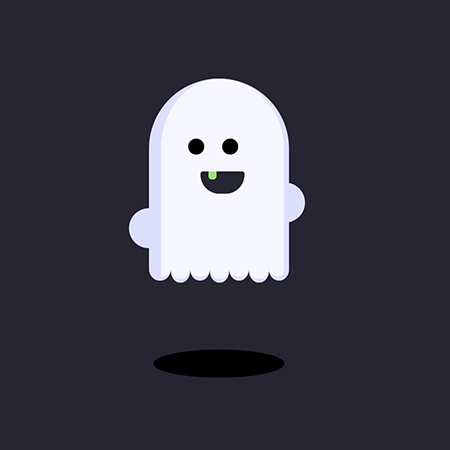
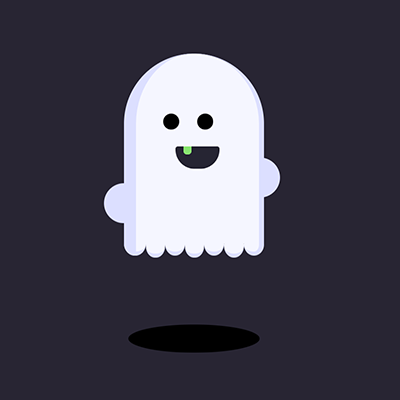
Add index to spooky-css

Changed region(s): [[0.24, 0.12, 0.72, 0.66], [0.3, 0.78, 0.66, 0.9], [0.39, 0.27, 0.57, 0.45]]

diff --git a/spooky-css/style/style.css b/spooky-css/style/style.css
@@ -9,6 +9,11 @@ html {
 
 body {
   box-sizing: border-box;
+  display: flex;
+  flex-direction: column;
+  align-items: stretch;
+  justify-content: space-between;
+  height: 100vh;
   overflow: hidden;
   margin: 0rem;
   padding: 0rem;
@@ -24,32 +29,64 @@ body {
 header {
   color: #F5F6FF;
   text-align: center;
-  padding: 2rem; }
-  header h1 {
-    font-family: 'Jolly Lodger';
-    font-size: 5rem;
-    letter-spacing: 0.4rem;
-    color: #F59651;
-    margin: 0rem; }
-  header h2 {
-    text-transform: uppercase;
-    font-size: 1rem;
-    letter-spacing: 0.1rem;
-    color: #54506e;
-    display: inline-flex;
-    align-items: center;
-    height: 1.6rem; }
+  padding: 2rem;
+  height: auto; }
+  header img {
+    width: 1.6rem;
+    height: 1.6rem;
+    margin-right: 0.4rem; }
 
 main {
+  flex: 1;
   display: flex;
   justify-content: center;
-  align-items: center;
-  height: 100vh; }
+  align-items: center; }
 
 .container {
   width: 40rem;
-  height: 40rem;
-  padding: 1rem; }
+  height: 30rem; }
+
+h1 {
+  font-family: 'Jolly Lodger';
+  font-size: 5rem;
+  letter-spacing: 0.4rem;
+  color: #F59651;
+  margin: 0rem; }
+
+h2 {
+  text-transform: uppercase;
+  font-size: 1rem;
+  letter-spacing: 0.1rem;
+  color: #54506e;
+  display: inline-flex;
+  align-items: center;
+  height: 1.6rem; }
+
+h3 {
+  font-family: 'Jolly Lodger';
+  font-size: 2.8rem;
+  letter-spacing: 0.4rem;
+  color: #F5F6FF;
+  text-align: center;
+  margin: 0rem 0rem 2rem; }
+
+.thumbWrapper {
+  margin-top: -6rem; }
+
+.thumbs {
+  display: flex; }
+  .thumbs img {
+    width: 20rem;
+    height: 20rem; }
+  .thumbs a {
+    display: block;
+    height: auto;
+    border-radius: 5px;
+    overflow: hidden;
+    transition: box-shadow .12s ease-out; }
+    .thumbs a:hover {
+      box-shadow: 0px 0px 20px rgba(255, 255, 255, 0.2);
+      transition: box-shadow .12s ease-in; }
 
 a {
   text-transform: uppercase;
@@ -63,10 +100,6 @@ a {
   padding: 0rem 0.6em; }
   a:hover {
     text-decoration: underline; }
-  a img {
-    width: 1.6rem;
-    height: 1.6rem;
-    margin-right: 0.3rem; }
 
 aside {
   position: fixed;
@@ -94,11 +127,6 @@ aside {
   animation: zoomy 2s infinite;
   animation-timing-function: ease-in-out; }
 
-@keyframes floaty {
-  0%, 100% {
-    transform: translateY(0); }
-  50% {
-    transform: translateY(-3rem); } }
 @keyframes zoomy {
   0%, 100% {
     transform: scale(1); }

diff --git a/spooky-css/style/global.scss b/spooky-css/style/global.scss
@@ -7,6 +7,11 @@ html{
 
 body{
   box-sizing: border-box;
+  display: flex;
+  flex-direction: column;
+  align-items: stretch;
+  justify-content: space-between;
+  height: 100vh;
   overflow: hidden;
   margin: 0rem;
   padding: 0rem;
@@ -25,37 +30,74 @@ header{
   color: $white;
   text-align: center;
   padding: 2rem;
+  height: auto;
 
-  h1{
-    font-family: 'Jolly Lodger';
-    font-size: 5rem;
-    letter-spacing: 0.4rem;
-    color: $orange;
-    margin: 0rem;
-  }
-
-  h2{
-    text-transform: uppercase;
-    font-size: 1rem;
-    letter-spacing: 0.1rem;
-    color: lighten($dark-gray, 20%);
-    display: inline-flex;
-    align-items: center;
+  img {
+    width: 1.6rem;
     height: 1.6rem;
+    margin-right: 0.4rem;
   }
 }
 
 main{
+  flex: 1;
   display: flex;
   justify-content: center;
   align-items: center;
-  height: 100vh;
 }
 
 .container{
   width: 40rem;
-  height: 40rem;
-  padding: 1rem;
+  height: 30rem;
+}
+
+h1{
+  font-family: 'Jolly Lodger';
+  font-size: 5rem;
+  letter-spacing: 0.4rem;
+  color: $orange;
+  margin: 0rem;
+}
+
+h2{
+  text-transform: uppercase;
+  font-size: 1rem;
+  letter-spacing: 0.1rem;
+  color: lighten($dark-gray, 20%);
+  display: inline-flex;
+  align-items: center;
+  height: 1.6rem;
+}
+
+h3{
+  font-family: 'Jolly Lodger';
+  font-size: 2.8rem;
+  letter-spacing: 0.4rem;
+  color: $white;
+  text-align: center;
+  margin: 0rem 0rem 2rem;
+}
+.thumbWrapper{
+  margin-top: -6rem;
+}
+.thumbs{
+  display: flex;
+
+  img{
+    width: 20rem;
+    height: 20rem;
+  }
+  a{
+    display: block;
+    height: auto;
+    border-radius: 5px;
+    overflow: hidden;
+    transition: box-shadow .12s ease-out;
+    &:hover{
+      box-shadow: 0px 0px 20px rgba(255, 255, 255, 0.2);
+      transition: box-shadow .12s ease-in;
+    }
+  }
 }
 
 a{
@@ -70,11 +112,6 @@ a{
   padding: 0rem 0.6em;
   &:hover{
     text-decoration: underline;
-  }
-  img {
-    width: 1.6rem;
-    height: 1.6rem;
-    margin-right: 0.3rem;
   }
 }
 

diff --git a/spooky-css/index.html b/spooky-css/index.html
@@ -11,25 +11,19 @@
       <h2><a href="https://mariaszubski.com" target="_blank">Lab @ Maria Szubski Digital, LLC</a> | <a href="https://github.com/MariaSzubski/lab/tree/master/spooky-css" target="_blank"><img src="assets/github.svg" alt="GitHub Source Code" /> Source Code</a></h2>
     </header>
     <main>
-      <section id="ghost" class="container">
+      <section class="thumbWrapper">
         <div>
-          <div class="body">
-            <div class="eyes"></div>
-            <div class="mouth"></div>
-            <div class="feet">
-              <div></div>
-              <div></div>
-              <div></div>
-              <div></div>
-              <div></div>
-            </div>
+          <h3>Choose a character</h3>
+          <div class="thumbs">
+            <a href="ghost.html">
+              <img src="./assets/a_ghost.png" alt="View Ghost animation" />
+            </a>
+            <a href="skull.html">
+              <img src="./assets/a_skull.png" alt="View Skull animation" />
+            </a>
           </div>
-          <div class="shadow"></div>
         </div>
       </section>
     </main>
-    <aside>
-      <a href="skull.html"><img src="./assets/a_skull_sm.png" alt="Switch to Skull animation" title="Switch to Skull animation" /></a>
-    </aside>
   </body>
 </html>

diff --git a/spooky-css/skull.html b/spooky-css/skull.html
@@ -2,12 +2,12 @@
 <html lang="en" dir="ltr">
   <head>
     <meta charset="utf-8">
-    <title>Halloween CSS Animations - Maria Szubski Digital, LLC</title>
+    <title>Spooky CSS Animations - Maria Szubski Digital, LLC</title>
     <link rel="stylesheet" href="style/style.css">
   </head>
   <body>
     <header>
-      <h1>Halloween Animations</h1>
+      <h1>Spooky CSS Animations</h1>
       <h2><a href="https://mariaszubski.com" target="_blank">Lab @ Maria Szubski Digital, LLC</a> | <a href="https://github.com/MariaSzubski/lab/tree/master/spooky-css" target="_blank"><img src="assets/github.svg" alt="GitHub Source Code" /> Source Code</a></h2>
     </header>
     <main>
